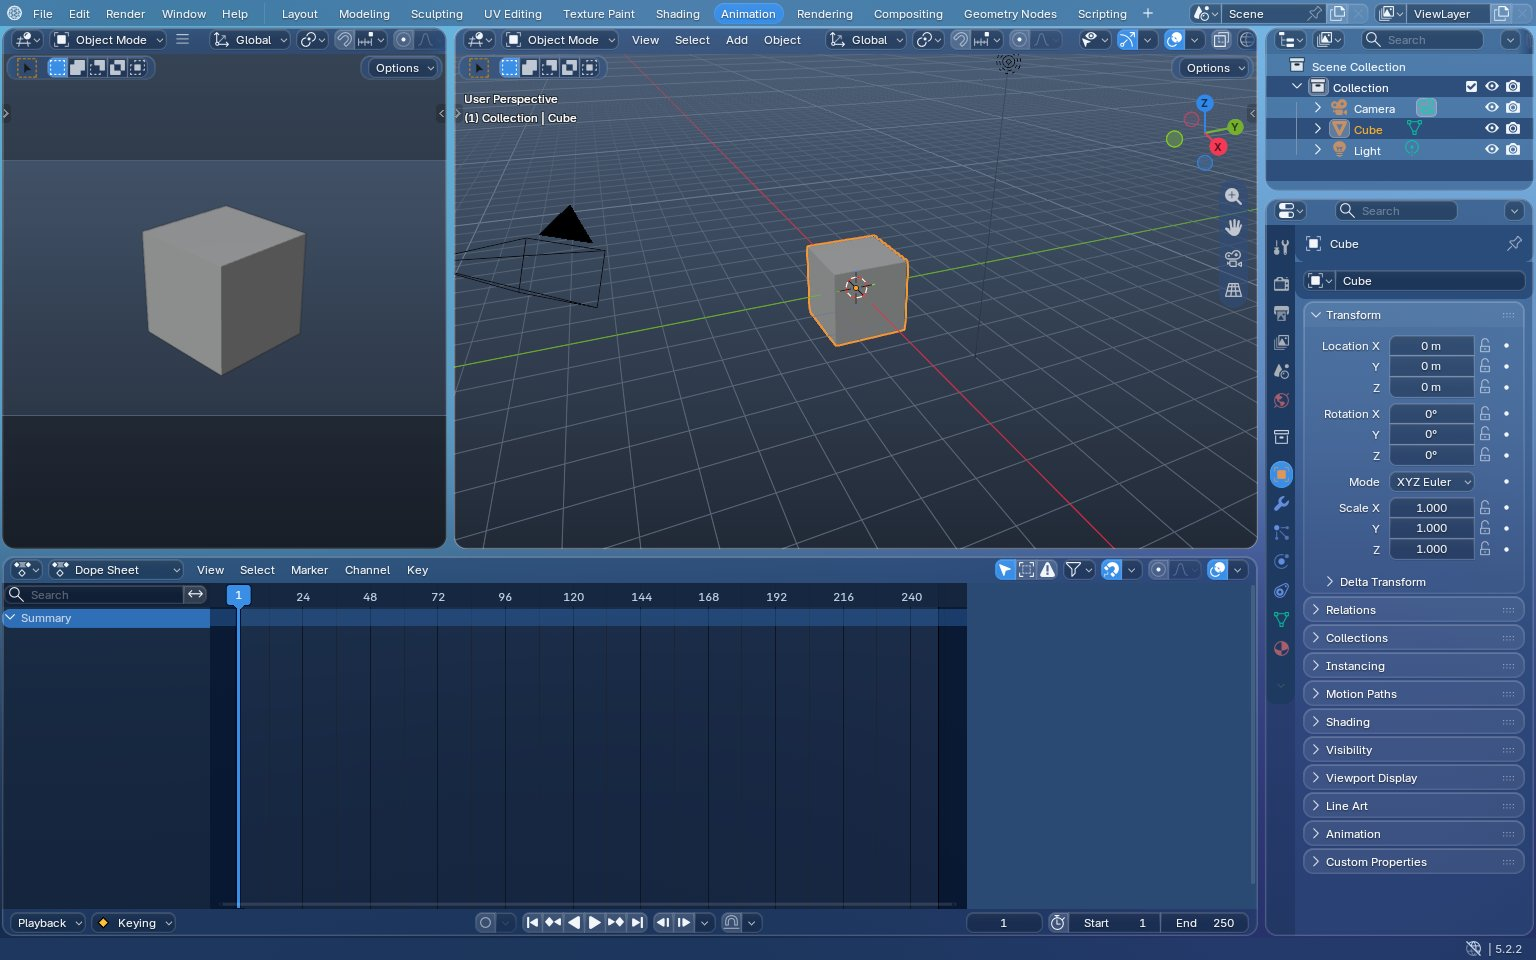
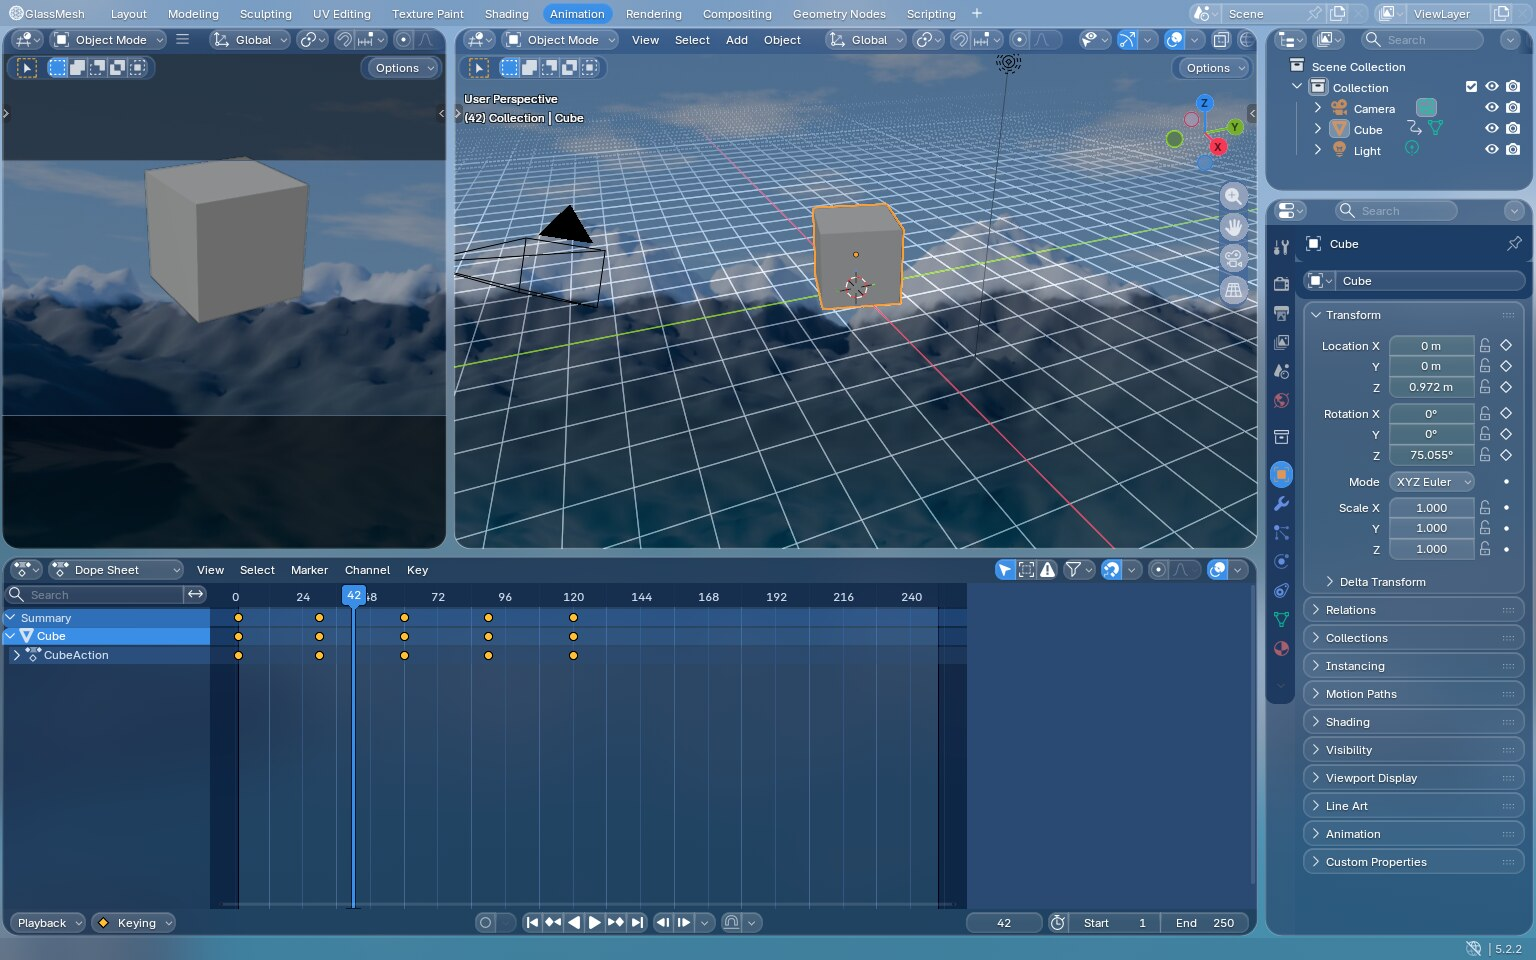
GlassMesh: Update the preview screenshots
Claude-Session: https://claude.ai/code/session_01L2QAqNNqWKW6my8jZ25rcy

diff --git a/GLASSMESH_NOTES.md b/GLASSMESH_NOTES.md
@@ -10,16 +10,16 @@ Foundation.
 ## Preview
 
 Screenshots from the verification build (Linux, software OpenGL, so a real GPU looks the same but
-sharper and faster). The viewport shows Blender's default scene.
+sharper and faster). The viewport shows Blender's default scene in front of the built-in wallpaper.
 
 | | |
 |---|---|
 | ![Layout](docs/glassmesh/layout.jpg) | ![Shading](docs/glassmesh/shading.jpg) |
-| Layout | Shading |
+| Layout | Shading, with glass node editor cards |
 | ![Animation](docs/glassmesh/animation.jpg) | ![Sculpting](docs/glassmesh/sculpting.jpg) |
 | Animation | Sculpting |
 | ![Frosted menu](docs/glassmesh/frosted_menu.jpg) | ![Preferences](docs/glassmesh/preferences.jpg) |
-| Frosted menu & side-bar over a colorful scene | Preferences, with the new Glass settings |
+| Frosted menu over the glass 3D viewport | Preferences, with switches and the Glass settings |
 | ![About](docs/glassmesh/about.jpg) | ![Glass off](docs/glassmesh/glass_off_blender_dark.jpg) |
 | About GlassMesh | Glass effect off + Blender Dark preset = classic look |
 
